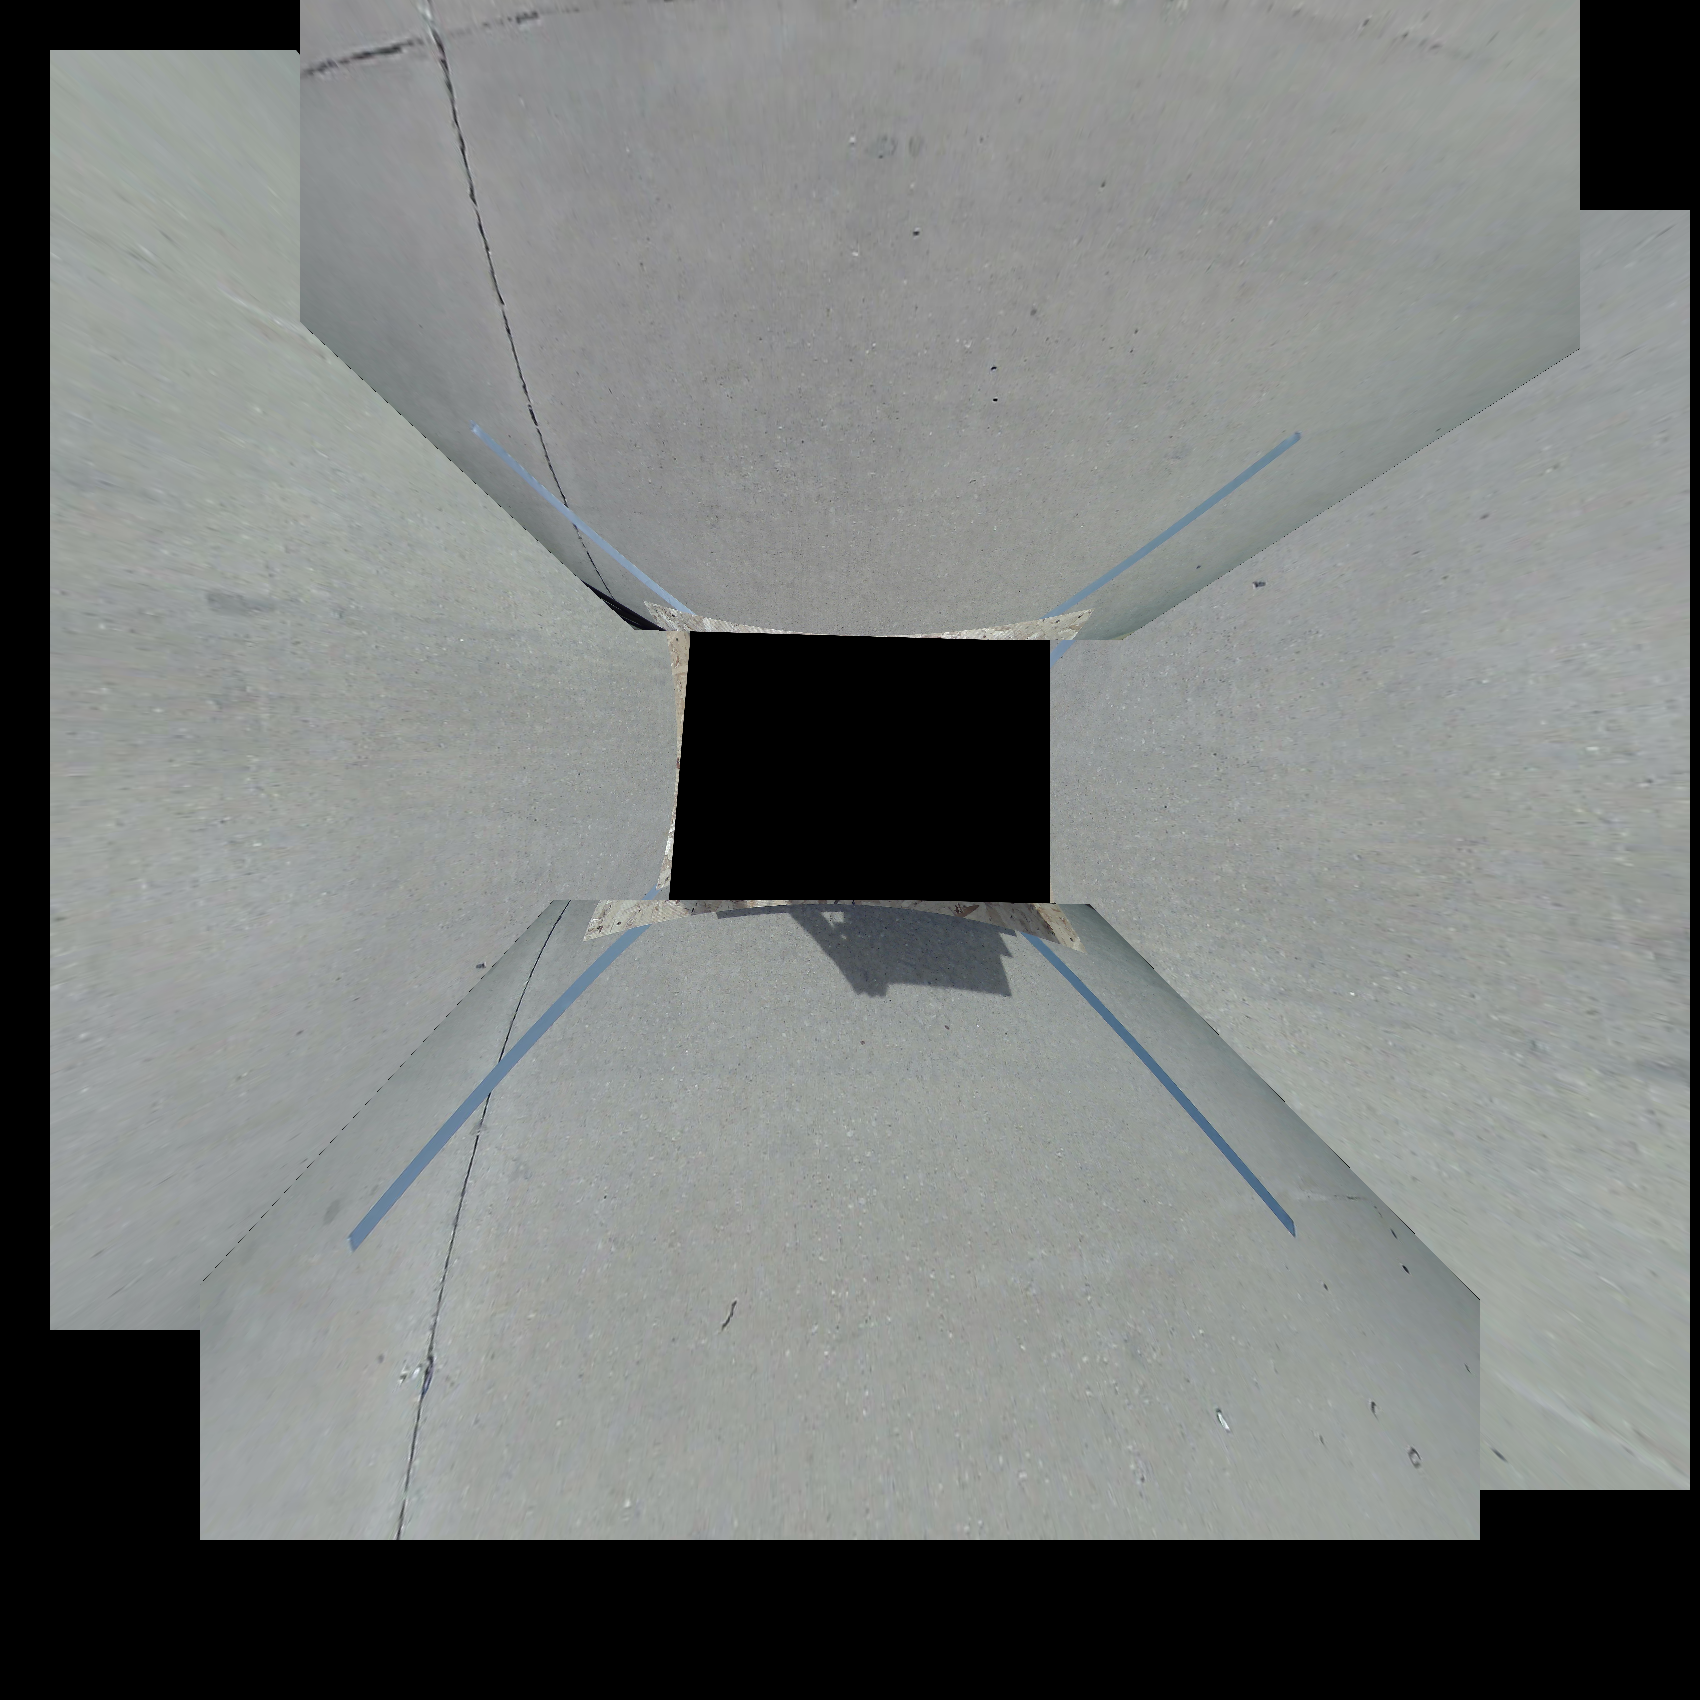
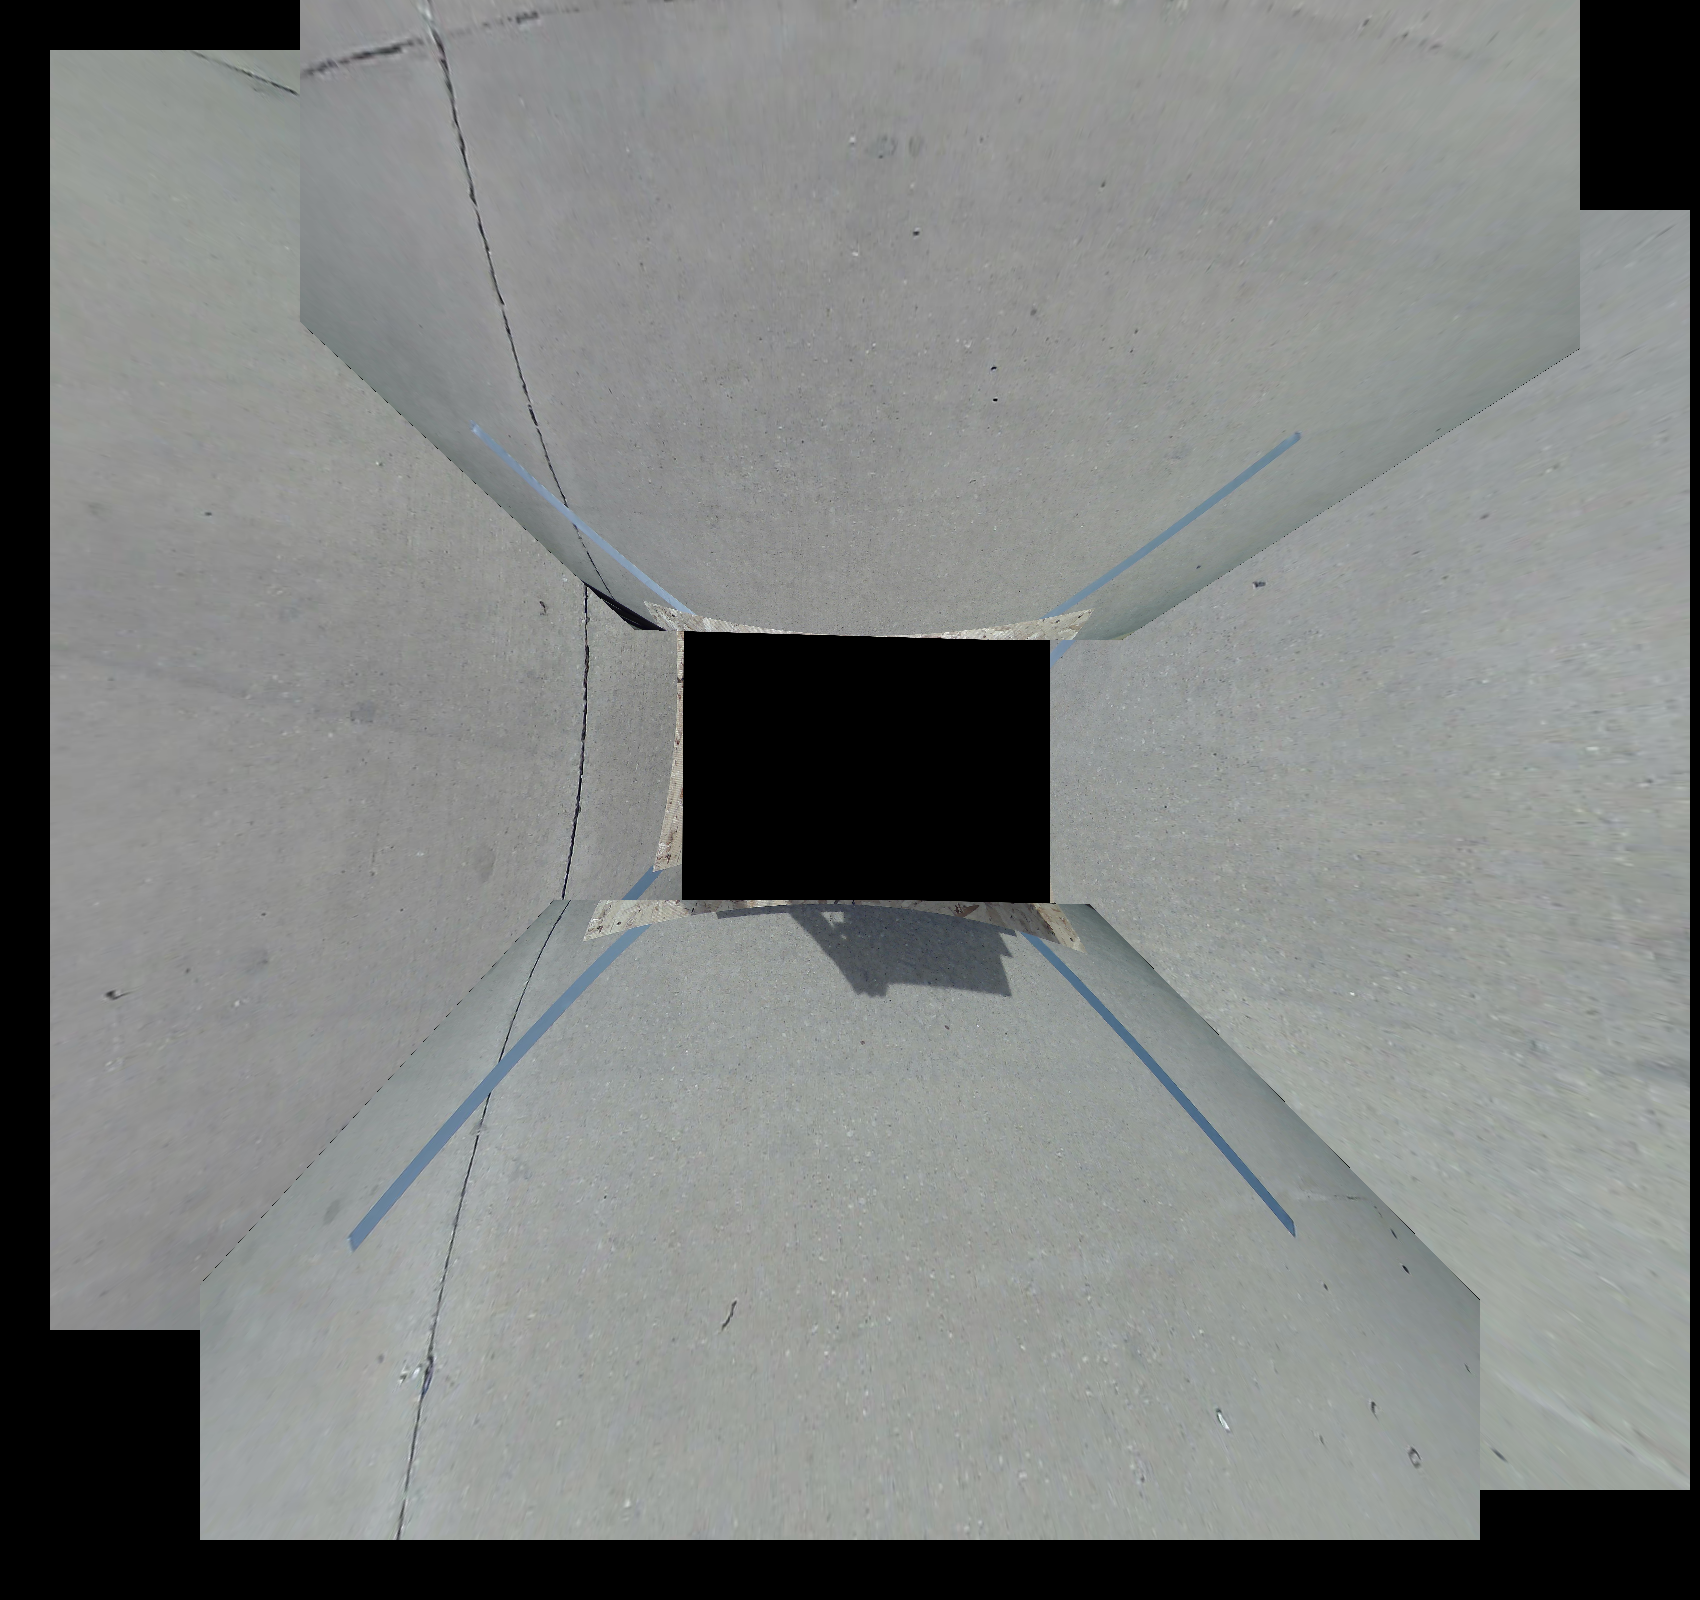
Changed wapred_left image

diff --git a/generate_warped.py b/generate_warped.py
@@ -7,21 +7,21 @@ import cv2
 import numpy as np
 from me470 import Geo_TF
 
-front_img = cv2.imread('./setup2/src/right.jpg')  #Original size [1920,1080]
+front_img = cv2.imread('./setup2/src/left.jpg')  #Original size [1920,1080]
 top_img = cv2.imread('./setup2/src/birdeye.jpg')
 
 geo = Geo_TF()
 
 '''Note: manually adjust (x,y) to obtain the desired image'''
-x,y = -750,-500
+x,y = -670,-670
 
 '''This transformation matrix is generated from pp_mat.py'''
-M = np.float32([[   0.1217,  -7.3459,3293.4387],
- [   1.1619,  -5.9302, 930.1546],
- [   0.0001,  -0.0031,   1.    ]])
+M = np.float32([[    0.1699,  -17.2271, 6135.841 ],
+ [    4.0422,  -13.2729,-1846.359 ],
+ [    0.0001,   -0.0069,    1.    ]])
 
 M = geo.translate_mat(M,x,y)
-M = geo.size(M,0.5)
+M = geo.size(M,0.5)  # Change this scaling factor to resize the image
 
 ''' Copy paste this TF matrix to video.py '''
 print(np.array2string(M, precision=4, separator=',',suppress_small=True))

diff --git a/video_offline.py b/video_offline.py
@@ -21,9 +21,9 @@ cap_bot = cv2.VideoCapture('./videos/bot.avi')
 M_top = np.float32([[  -3.8658,  -9.3394,4175.655 ],
  [   0.3243, -14.1634,4167.4443],
  [   0.0007,  -0.0173,   1.    ]])
-M_left =np.float32([[  -3.707 ,   6.2256,3965.1167],
- [  -0.0678,  -2.8551,3128.9346],
- [  -0.0011,   0.0102,   1.    ]])
+M_left =np.float32([[    0.0514,   -6.3021, 2732.9204],
+ [    1.9876,   -4.3249,-1258.1794],
+ [    0.0001,   -0.0069,    1.    ]])
 M_right =np.float32([[  -0.0215,   0.7568,-764.8566],
  [  -0.4719,  -1.8913,1150.316 ],
  [   0.0002,  -0.0032,   1.    ]])

diff --git a/blending.py b/blending.py
@@ -16,8 +16,8 @@ warped_l = cv2.imread('./setup2/warped/warped_left.png')
 warped_b =cv2.imread('./setup2/warped/warped_bot.png')
 
 # Background
-canvas_1 = np.zeros(shape = [1700,1700,3], dtype = np.uint8)
-canvas_2 = np.zeros(shape = [1700,1700,3], dtype = np.uint8)
+canvas_1 = np.zeros(shape = [1600,1700,3], dtype = np.uint8)
+canvas_2 = np.zeros(shape = [1600,1700,3], dtype = np.uint8)
 
 # Manually adjust (x,y) to line up images
 img_t = geo.add(warped_t,canvas_1,x=300,y = 0)  # add top to the canvas
